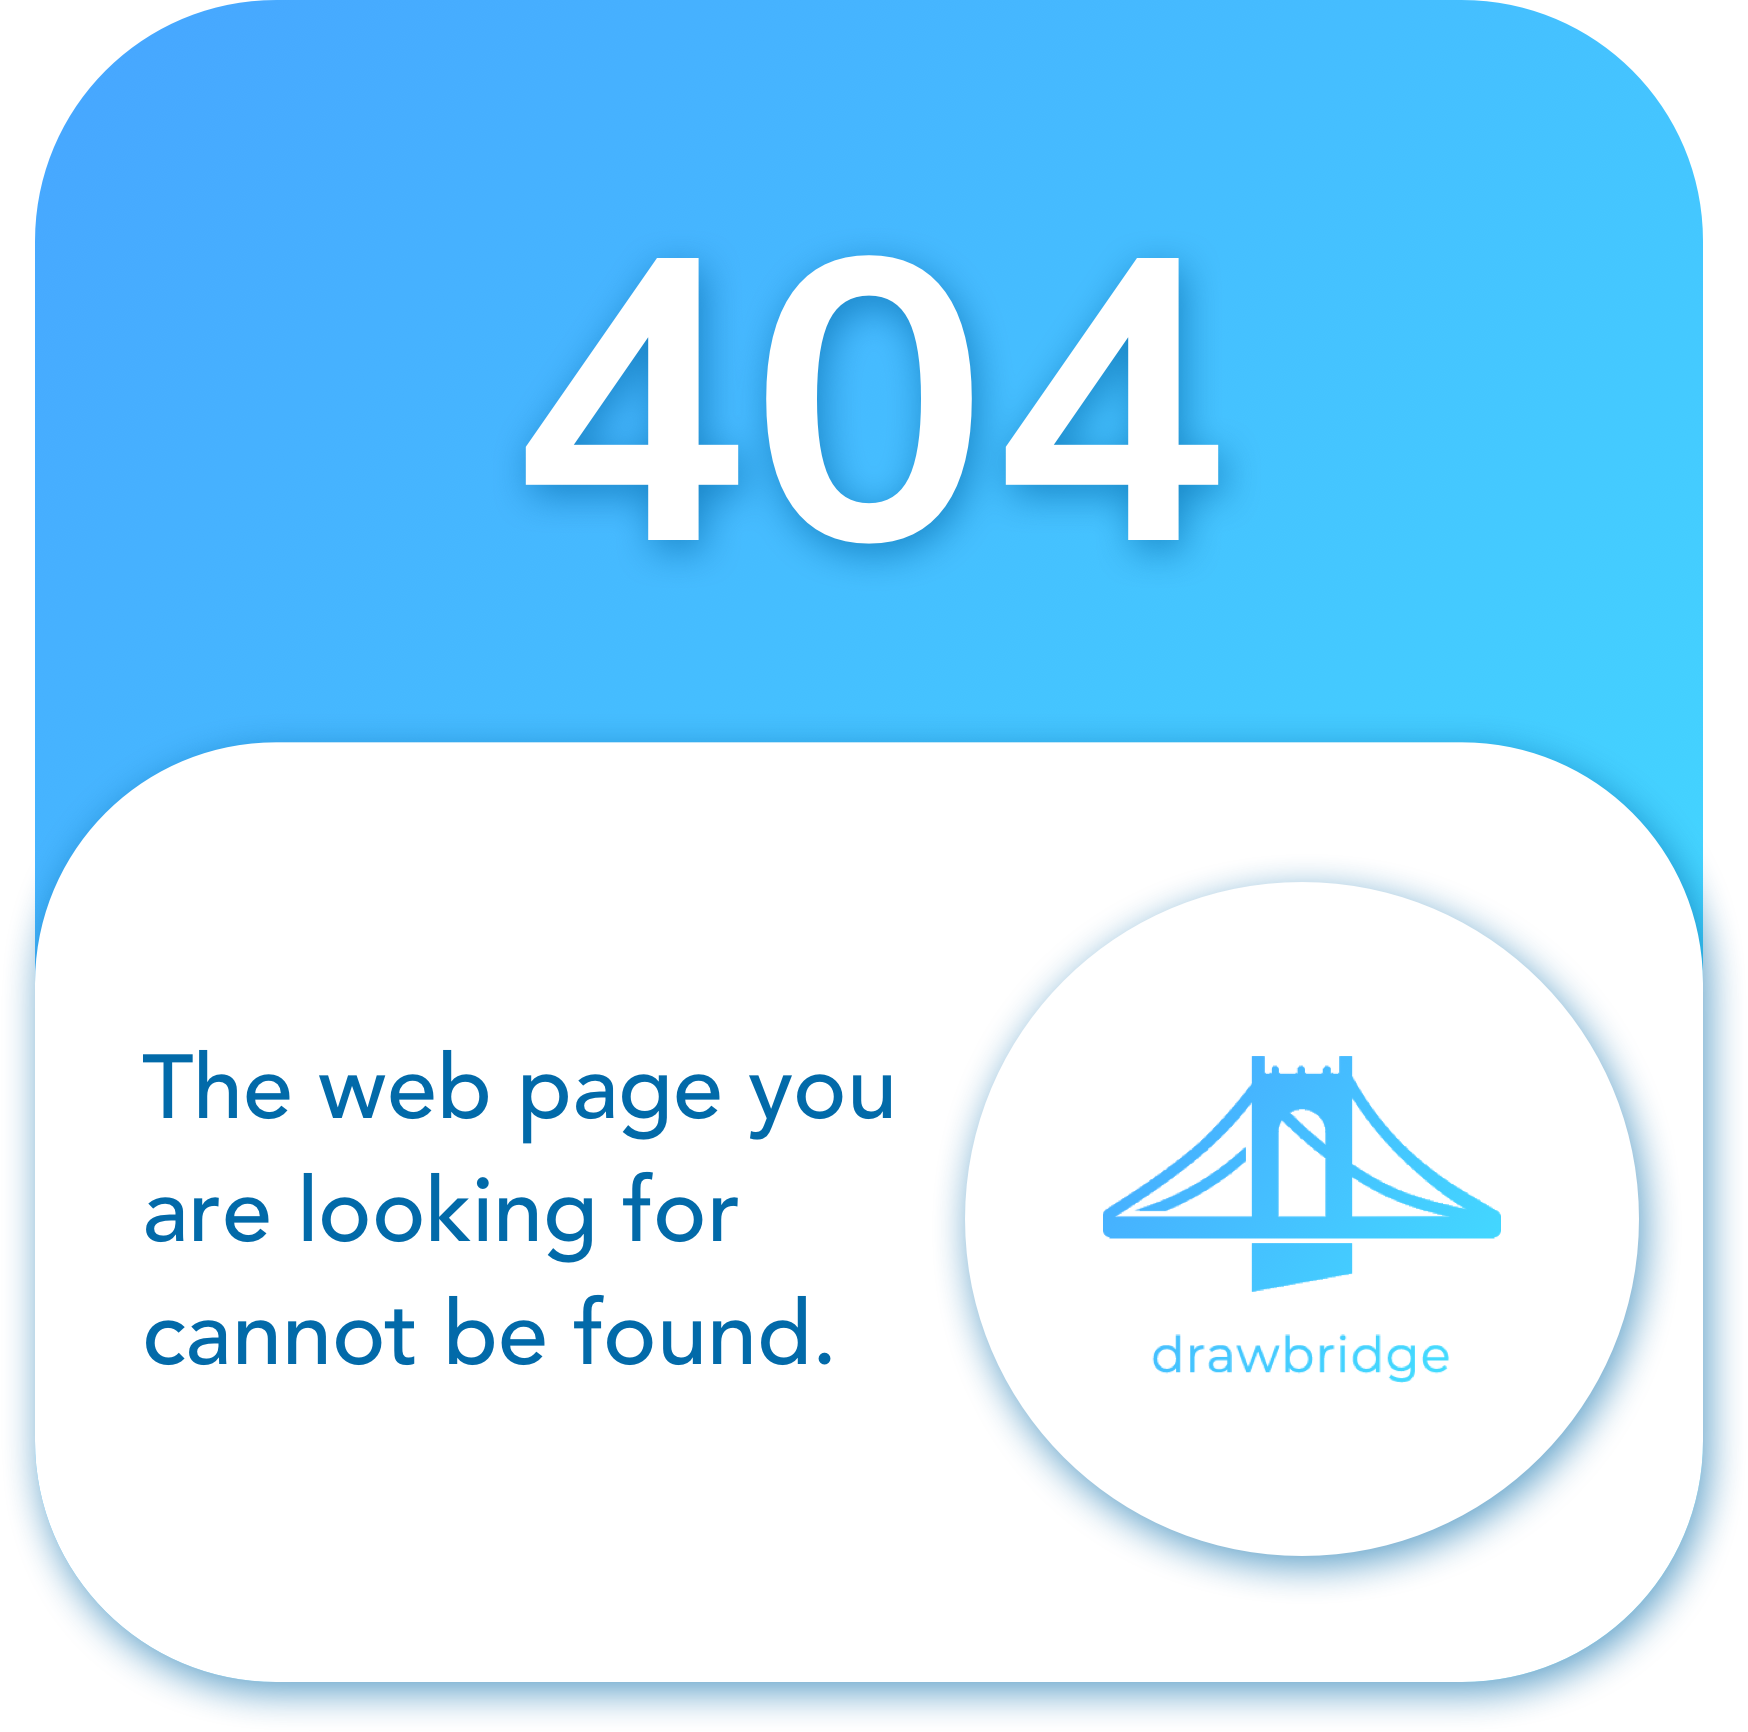
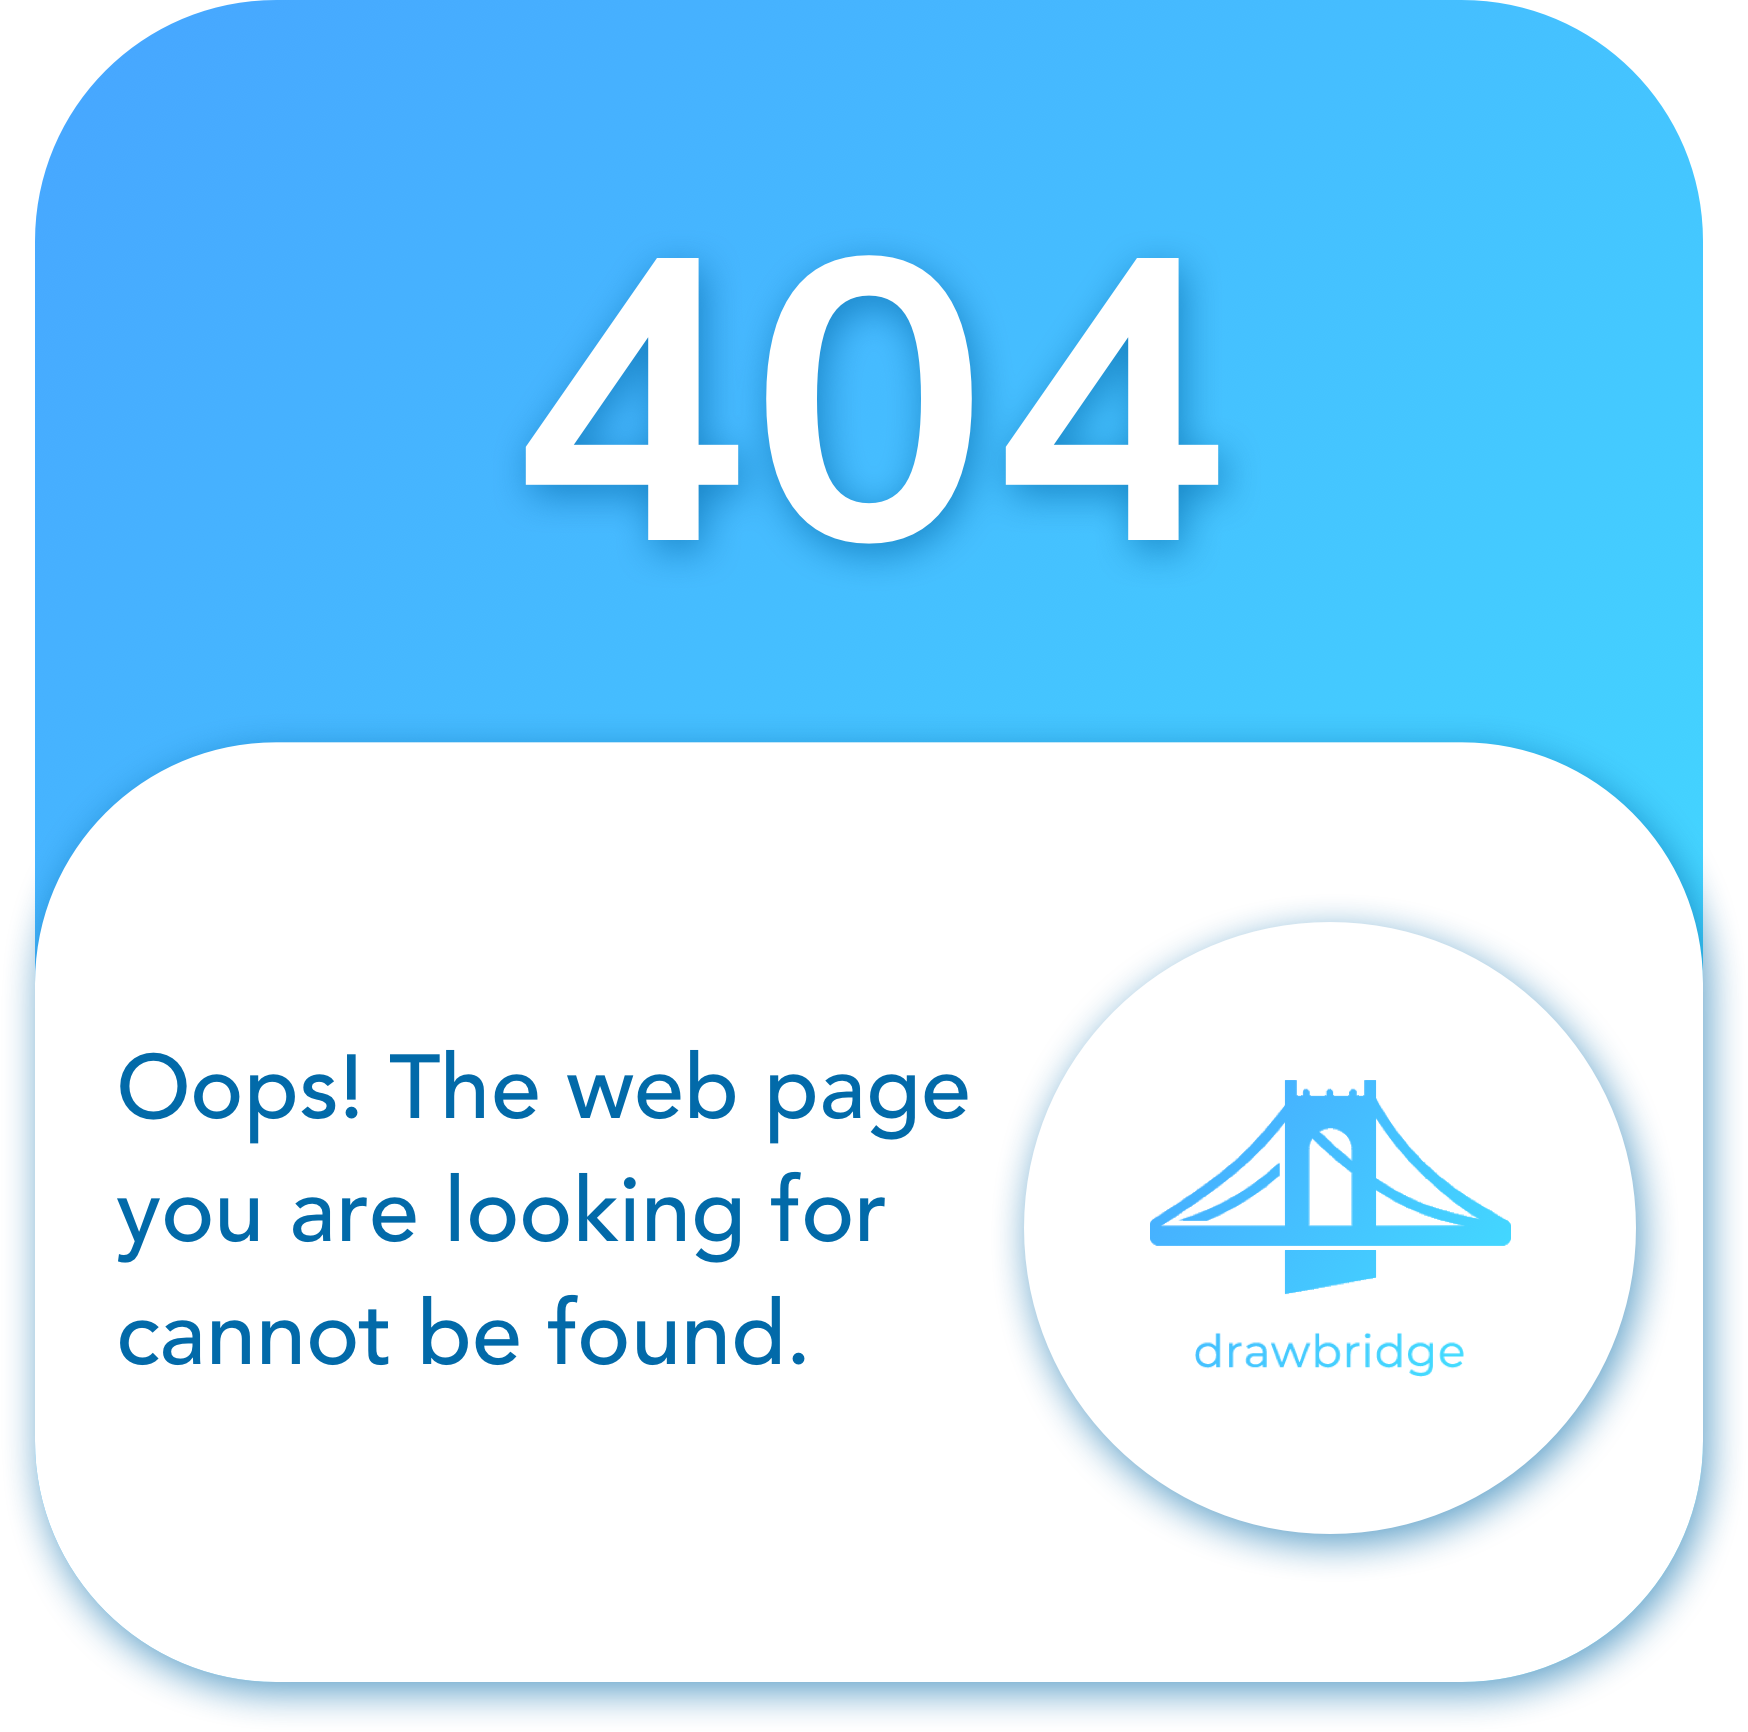
Add 500 status server error page

Changed region(s): [[0.0618, 0.4988, 0.9577, 0.9353], [0.6178, 0.5924, 0.865, 0.8106]]

diff --git a/src/main/java/edu/brown/cs/drawbridge/main/UserInterface.java b/src/main/java/edu/brown/cs/drawbridge/main/UserInterface.java
@@ -95,6 +95,7 @@ public final class UserInterface {
     Spark.post("/new", new CreatePostHandler());
 
     Spark.get("/help", new InfoGetHandler(), freeMarker);
+    Spark.get("/error", new ServerErrorHandler(), freeMarker);
 
     Spark.get("/*", new Code404Handler(), freeMarker);
 
@@ -105,6 +106,78 @@ public final class UserInterface {
   }
 
   // ---------------------------- Home ------------------------------------
+
+  /**
+   * Overloaded method to provide an alternate signature for the
+   * JSON-processing method.
+   *
+   * @param uid
+   *     The user id for which to create this JSON object.
+   * @param tripGroups
+   *     a trip-group array.
+   *
+   * @return A JSON-encodable data structure for trip-groups.
+   */
+  @SafeVarargs private static List<List<Map<String, String>>> processToJSON(
+      String uid, List<Trip>... tripGroups) {
+
+    return processToJSON(uid, Arrays.asList(tripGroups));
+  }
+
+  // ---------------------------- List ------------------------------------
+
+  /**
+   * Method to help process a list of trip-groups into a JSON-encodable format.
+   *
+   * @param uid
+   *     The user id this is being compiled for.
+   * @param tripGroupList
+   *     The list of troup-grips.
+   *
+   * @return A JSON-encodable list of groups of trip objects.
+   */
+  private static List<List<Map<String, String>>> processToJSON(String uid,
+      List<List<Trip>> tripGroupList) {
+    List<List<Map<String, String>>> data = new ArrayList<>();
+    for (List<Trip> entry : tripGroupList) {
+
+      List<Map<String, String>> innerList = new ArrayList<>();
+      for (Trip trip : entry) {
+        String status;
+        if (trip.getMemberIds().contains(uid)) {
+          status = "joined";
+        } else if (trip.getHostId().equals(uid)) {
+          status = "hosting";
+        } else if (trip.getPendingIds().contains(uid)) {
+          status = "pending";
+        } else {
+          status = "join";
+        }
+
+        Map<String, String> vals = new HashMap<>();
+        vals.put("start", trip.getStartingAddress());
+        vals.put("end", trip.getEndingAddress());
+        vals.put("date", Long.toString(trip.getDepartureTime()));
+        vals.put("currentSize", Integer.toString(trip.getCurrentSize()));
+        vals.put("maxSize", Integer.toString(trip.getMaxUsers()));
+        if (uid != null) {
+          vals.put("costPerPerson", Double.toString(trip.getCostPerUser(uid)));
+        } else {
+          vals.put("costPerPerson", Double.toString(trip.getCostPerUser("")));
+        }
+        vals.put("id", Integer.toString(trip.getId()));
+        vals.put("name", trip.getName());
+        vals.put("status", status);
+
+        innerList.add(vals);
+      }
+      data.add(innerList);
+    }
+    return data;
+  }
+
+  // --------------------------- Detail -----------------------------------
+
   /**
    * Handle requests to the home screen of the website.
    */
@@ -118,8 +191,7 @@ public final class UserInterface {
     }
   }
 
-  // ---------------------------- List ------------------------------------
-/**
+  /**
    * Class to handle getting results to display; This handles all requests
    * originating from the home page and from resubmitting the walking time
    * values.
@@ -172,7 +244,7 @@ public final class UserInterface {
     }
   }
 
-  // --------------------------- Detail -----------------------------------
+  // ---------------------------- User ------------------------------------
 
   /**
    * Handler to get information about a specific trip and display it on a page.
@@ -268,8 +340,7 @@ public final class UserInterface {
     }
   }
 
-
-  // ---------------------------- User ------------------------------------
+  // --------------------------- Create -----------------------------------
 
   /**
    * Handles the display of the "my trips" page. Simply returns the template.
@@ -308,9 +379,7 @@ public final class UserInterface {
     }
   }
 
-
-
-  // --------------------------- Create -----------------------------------
+  // ---------------------------- Info ------------------------------------
 
   /**
    * Handles loading the "create new trip" page. Simple template serving.
@@ -325,6 +394,8 @@ public final class UserInterface {
       return new ModelAndView(variables, "create.ftl");
     }
   }
+
+  // --------------------------- Errors -----------------------------------
 
   /**
    * Handles create form submission and actual creation of a new trip.
@@ -370,8 +441,6 @@ public final class UserInterface {
     }
   }
 
-  // ---------------------------- Info ------------------------------------
-
   /**
    * Class to handle get requests to faq/help/info static page.
    */
@@ -385,7 +454,8 @@ public final class UserInterface {
     }
   }
 
-  // --------------------------- Errors -----------------------------------
+  // --------------------------- Helpers -----------------------------------
+
   /**
    * Class to handle all page not found requests.
    */
@@ -398,75 +468,19 @@ public final class UserInterface {
       response.status(404);
       return new ModelAndView(variables, "not-found.ftl");
     }
-
-  }
-
-  // --------------------------- Helpers -----------------------------------
-
-  /**
-   * Overloaded method to provide an alternate signature for the
-   * JSON-processing method.
-   *
-   * @param uid
-   *     The user id for which to create this JSON object.
-   * @param tripGroups
-   *     a trip-group array.
-   *
-   * @return A JSON-encodable data structure for trip-groups.
-   */
-  @SafeVarargs private static List<List<Map<String, String>>> processToJSON(
-      String uid, List<Trip>... tripGroups) {
-
-    return processToJSON(uid, Arrays.asList(tripGroups));
   }
 
   /**
-   * Method to help process a list of trip-groups into a JSON-encodable format.
-   *
-   * @param uid
-   *     The user id this is being compiled for.
-   * @param tripGroupList
-   *     The list of troup-grips.
-   *
-   * @return A JSON-encodable list of groups of trip objects.
+   * Class to handle all page not found requests.
    */
-  private static List<List<Map<String, String>>> processToJSON(String uid,
-      List<List<Trip>> tripGroupList) {
-    List<List<Map<String, String>>> data = new ArrayList<>();
-    for (List<Trip> entry : tripGroupList) {
+  private static class ServerErrorHandler implements TemplateViewRoute {
+    @Override public ModelAndView handle(Request request, Response response) {
+      Map<String, Object> variables = new ImmutableMap.Builder<String, Object>()
+          .put("title", "Drawbridge | Page Not Found")
+          .put("favicon", "images/favicon.png").build();
 
-      List<Map<String, String>> innerList = new ArrayList<>();
-      for (Trip trip : entry) {
-        String status;
-        if (trip.getMemberIds().contains(uid)) {
-          status = "joined";
-        } else if (trip.getHostId().equals(uid)) {
-          status = "hosting";
-        } else if (trip.getPendingIds().contains(uid)) {
-          status = "pending";
-        } else {
-          status = "join";
-        }
-
-        Map<String, String> vals = new HashMap<>();
-        vals.put("start", trip.getStartingAddress());
-        vals.put("end", trip.getEndingAddress());
-        vals.put("date", Long.toString(trip.getDepartureTime()));
-        vals.put("currentSize", Integer.toString(trip.getCurrentSize()));
-        vals.put("maxSize", Integer.toString(trip.getMaxUsers()));
-        if (uid != null) {
-          vals.put("costPerPerson", Double.toString(trip.getCostPerUser(uid)));
-        } else {
-          vals.put("costPerPerson", Double.toString(trip.getCostPerUser("")));
-        }
-        vals.put("id", Integer.toString(trip.getId()));
-        vals.put("name", trip.getName());
-        vals.put("status", status);
-
-        innerList.add(vals);
-      }
-      data.add(innerList);
+      response.status(500);
+      return new ModelAndView(variables, "server-error.ftl");
     }
-    return data;
   }
 }
